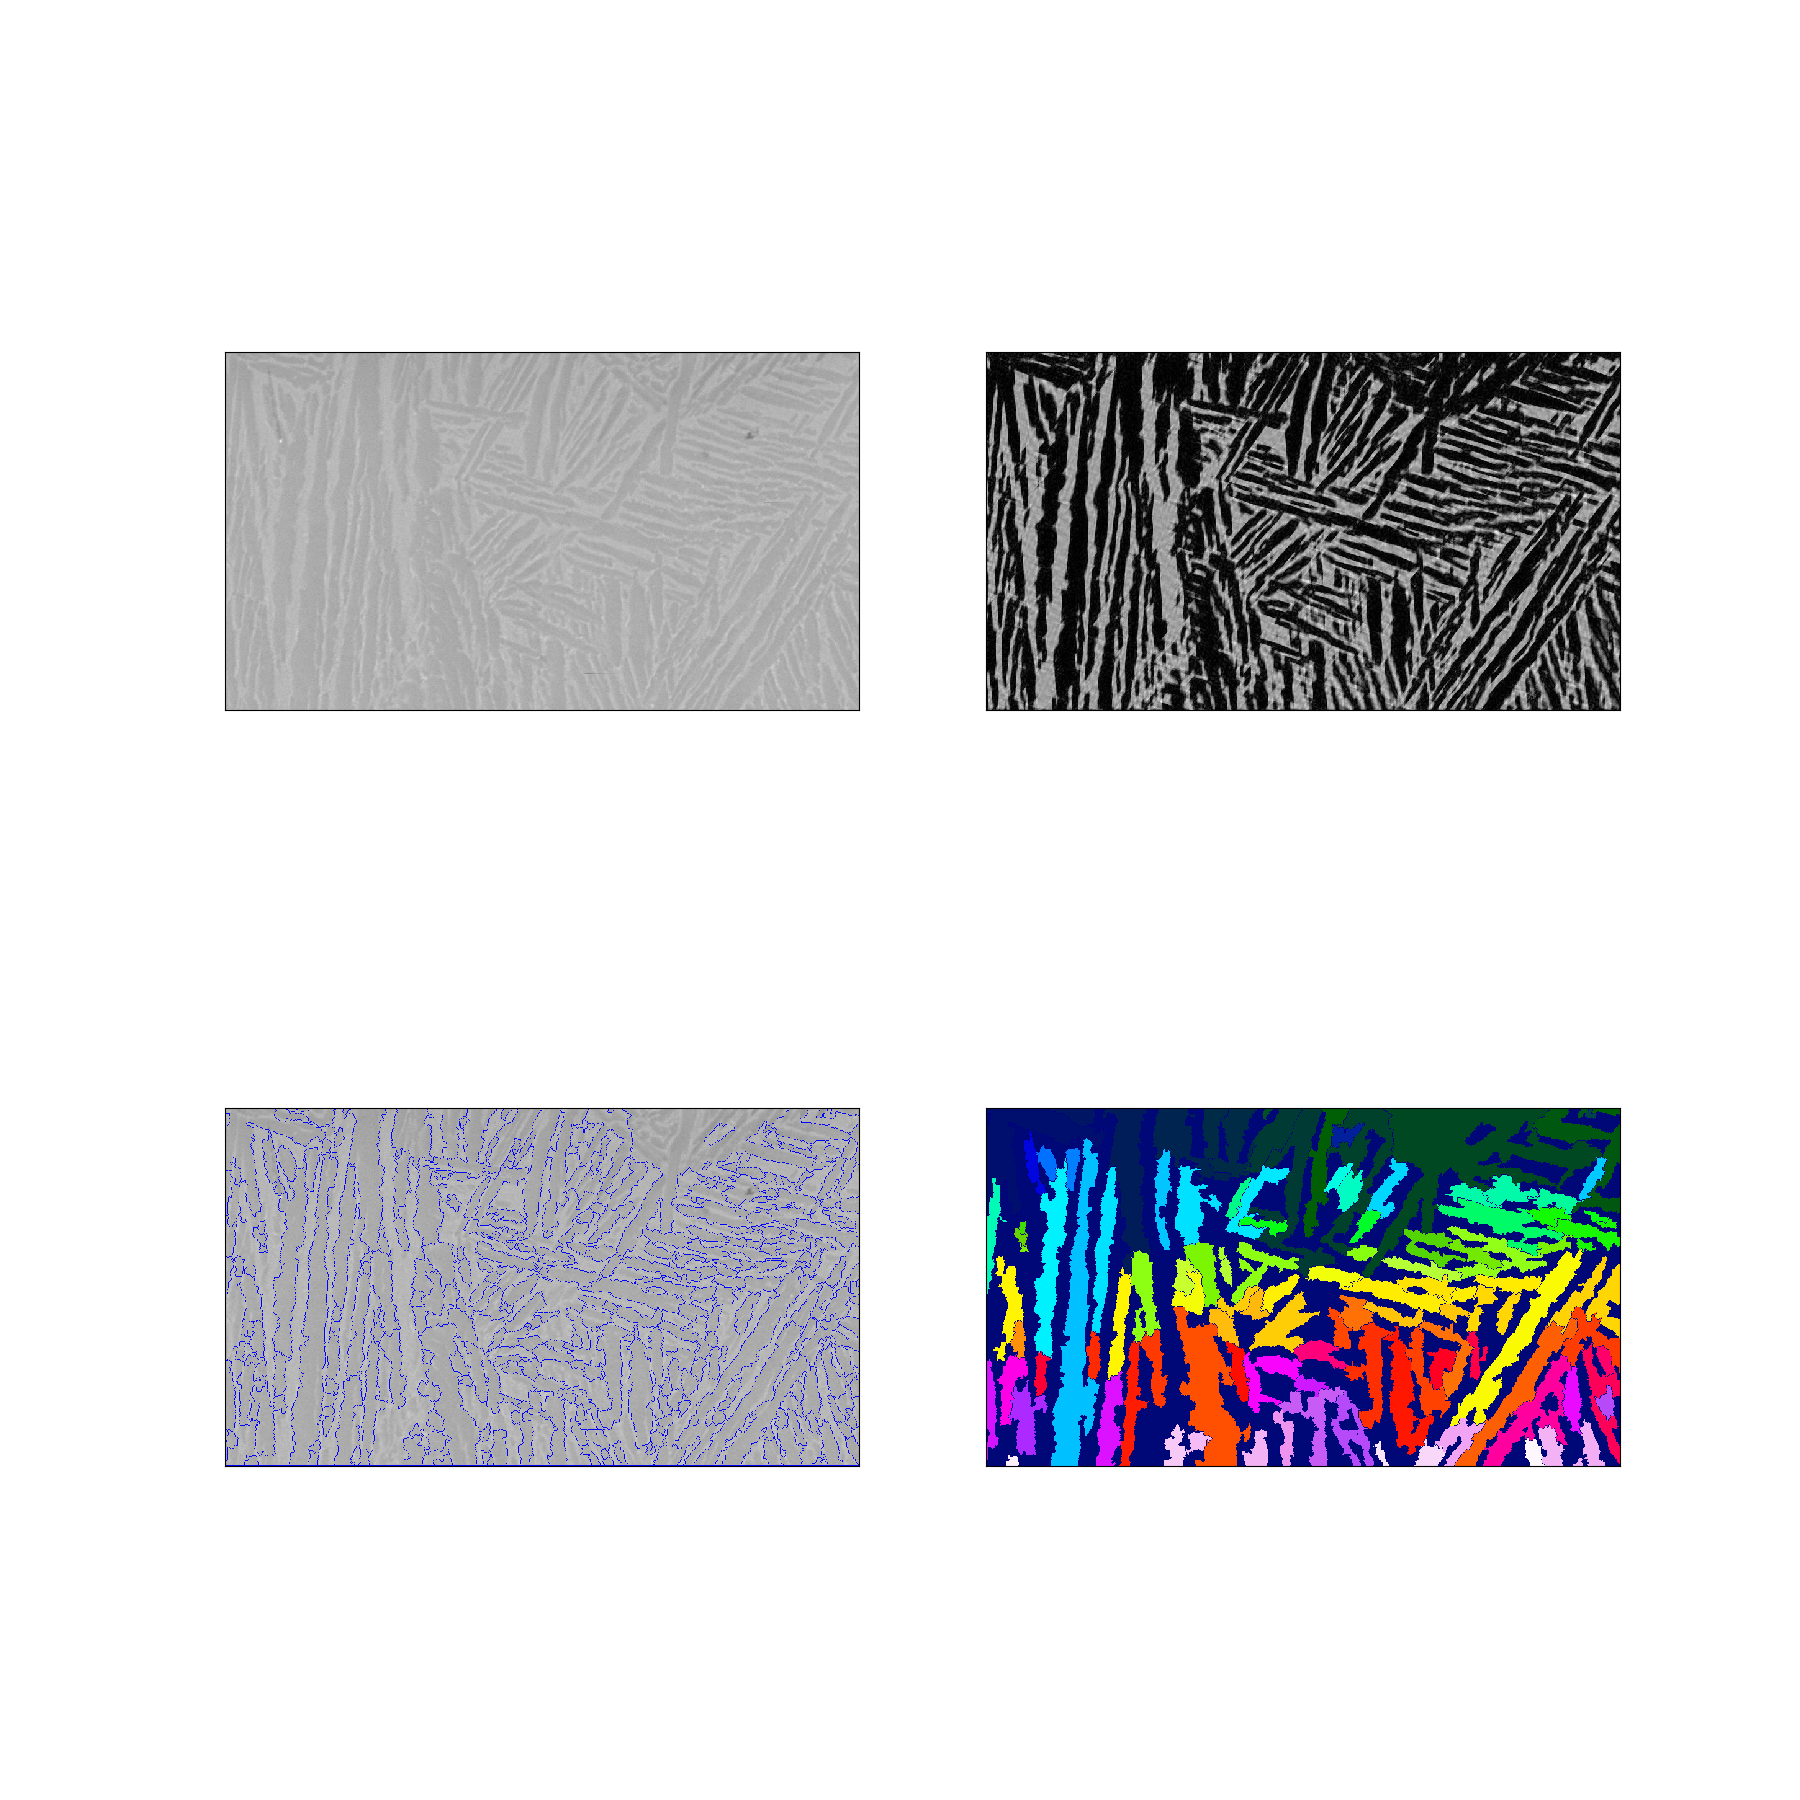
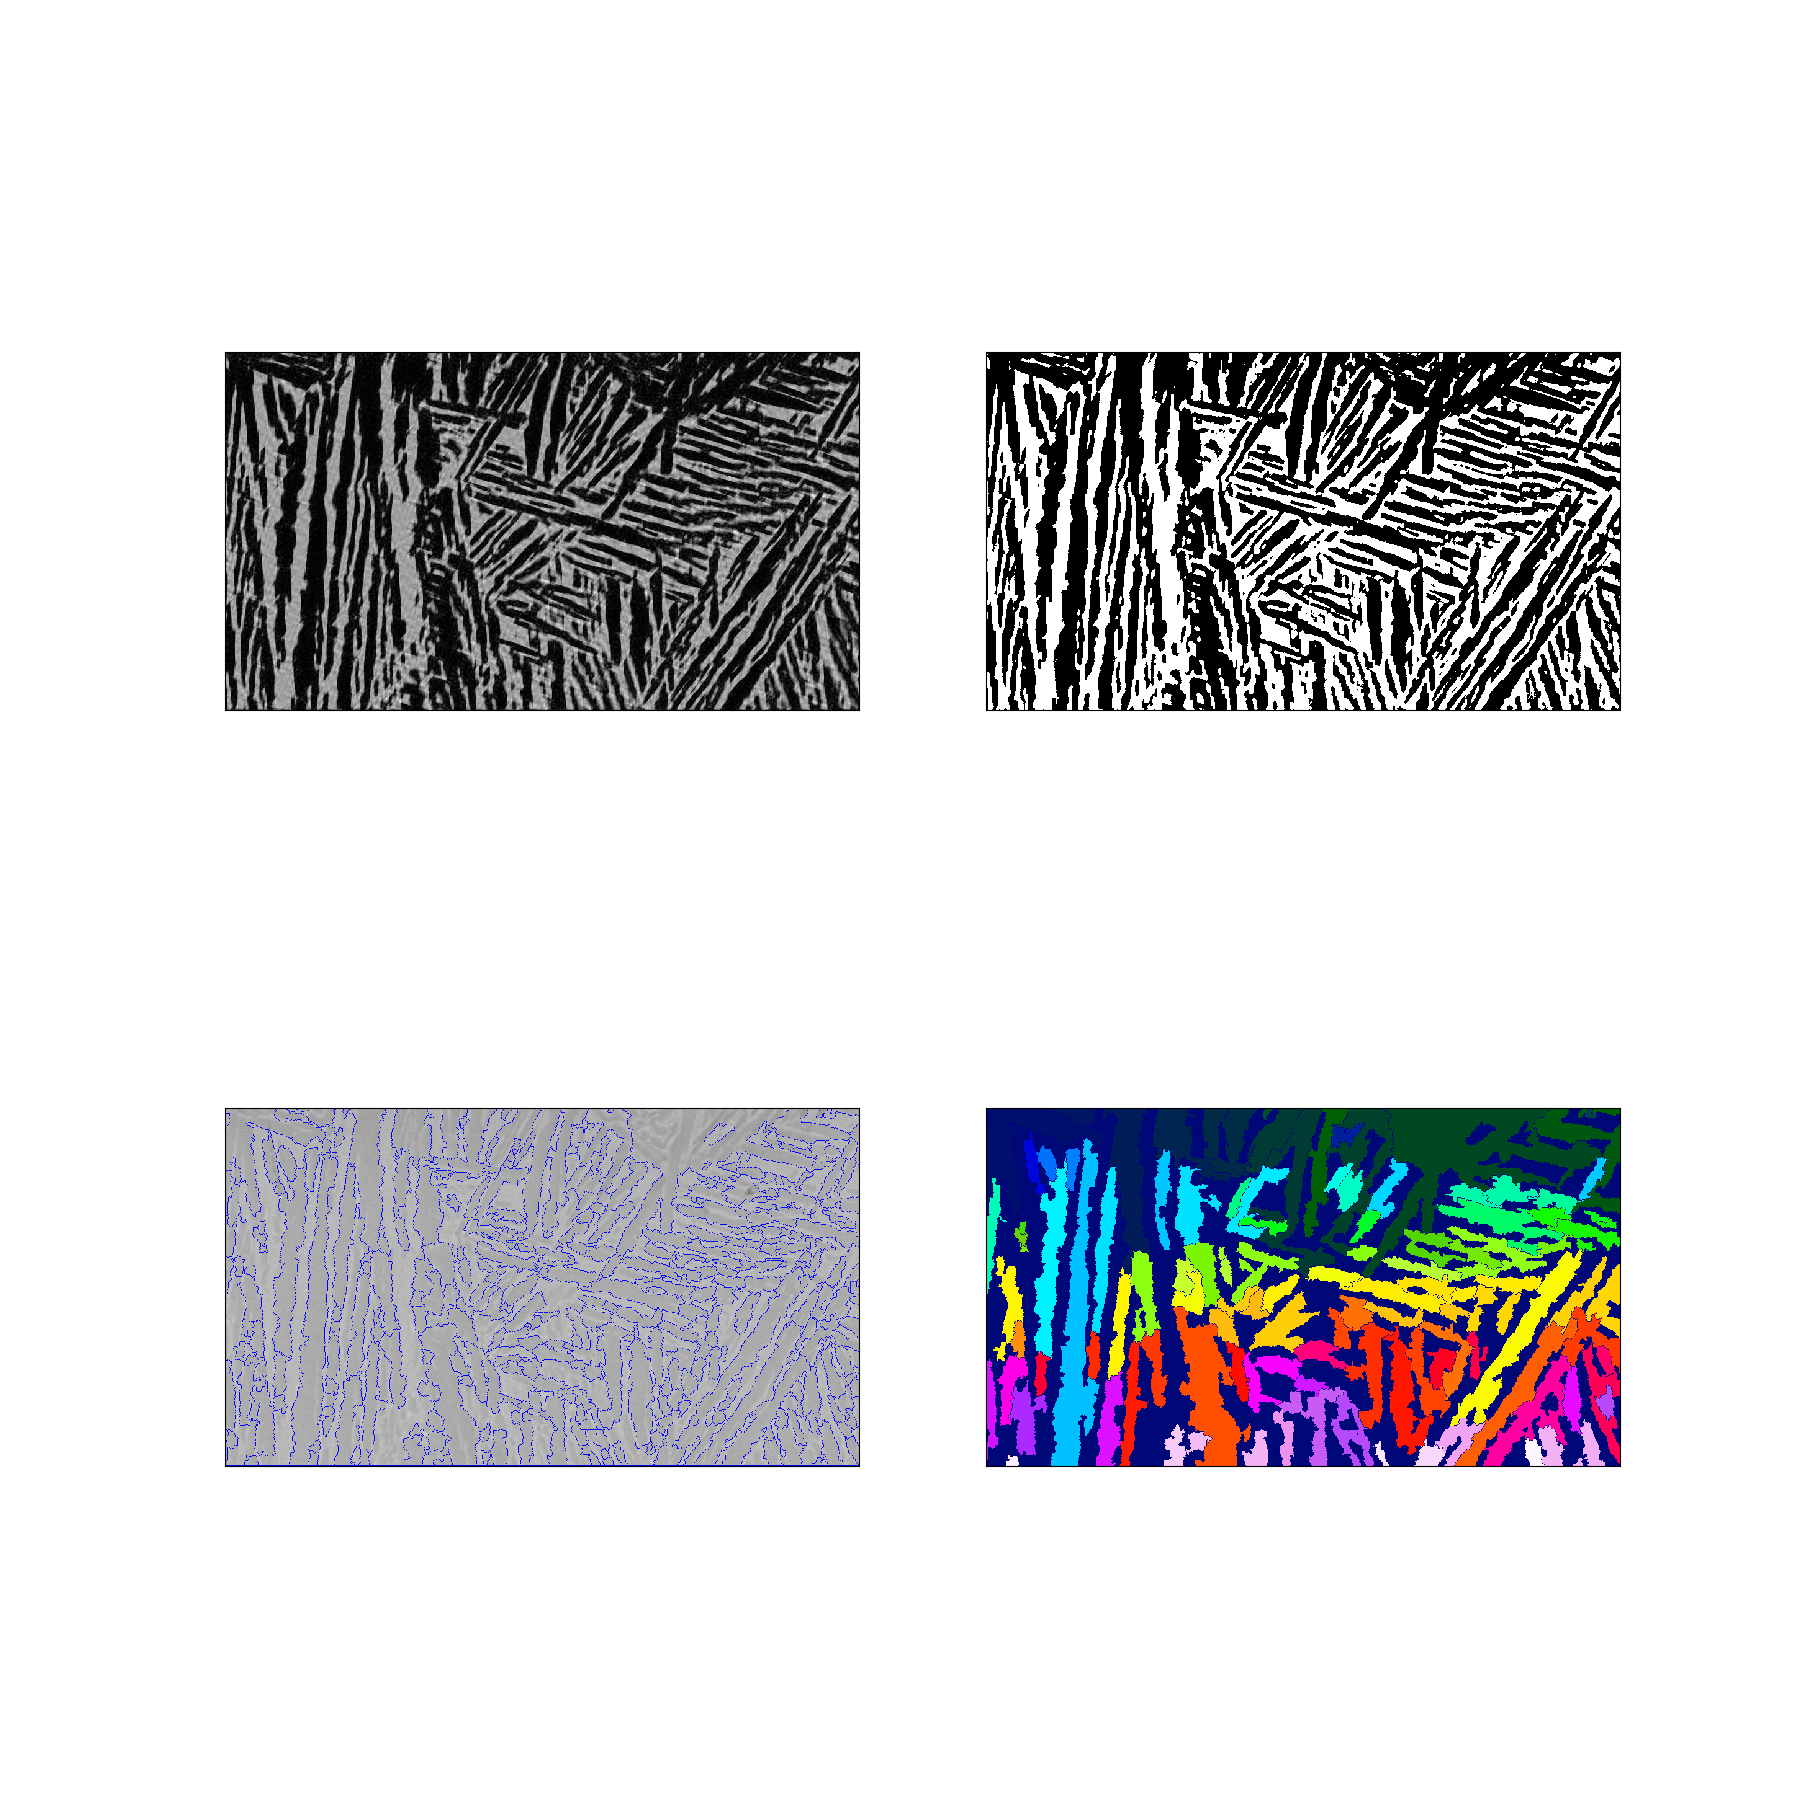
Updated MIPAR FFT images and data

Changed region(s): [[0.1244, 0.1867, 0.4978, 0.4044], [0.5289, 0.1867, 0.9022, 0.4044]]

diff --git a/visualisation.py b/visualisation.py
@@ -4,6 +4,7 @@ import matplotlib.pyplot as plt
 import os
 import time
 
+import data_extraction
 import oversegmentation
 import watershed
 import fast_Fourier_transform
@@ -75,11 +76,11 @@ removed = oversegmentation.remove_boundary(merged)
 # Visualise segmentation results
 image_processing.display_image_2D(
     fft_comparison['after FFT inverse'],
+    segmented['pre_thresholded'],
     segmented['segmented image'],
-    unmerged,
     removed,
     rows=2, cols=2,
-    cmap=['gray', None, 'gist_ncar', 'gist_ncar'],
+    cmap=['gray', 'gray', 'gist_ncar', 'gist_ncar'],
     visualisation=True)
 
 end = time.time()

diff --git a/image_saving.py b/image_saving.py
@@ -75,12 +75,12 @@ removed = oversegmentation.remove_boundary(merged)
 
 # Save segmentation results
 image_processing.display_image_2D(
-    image_ori,
     fft_comparison['after FFT inverse'],
+    segmented['pre_thresholded'],
     segmented['segmented image'],
-    unmerged,
+    removed,
     rows=2, cols=2,
-    cmap=[None, 'gray', None, 'gist_ncar'],
+    cmap=['gray', 'gray', 'gist_ncar', 'gist_ncar'],
     filename='Data/Pics/'+'segmentation_{}_FFT.png'.format(name))
 
 end = time.time()

diff --git a/README.md b/README.md
@@ -61,6 +61,7 @@ Watershed segmentation (FFT): (thersh, kernel, thresh_pre, dia_iter) = (0.21, (5
 Merge threshold (Otsu): merge_thresh = 1000
 
 Merge threshold (FFT): merge_thresh = 800
+
 ## Acknowledgment
 
 Our project idea was raised during a discussion with our supervising teacher, Dr Nathaniel Ng. We sincerely thank Dr Nathaniel for his guidance and advice. He provided many valuable suggestions on the image processing procedure and on the writing of this report. We thank Institute of Material Research and Engineering of A*STAR for providing us with the IMRE image. We are also grateful to MIPAR for allowing us to use the MIPAR image, one of the many microstructure images available on the website. Lastly, we would like to express our gratitude to Mrs Judy Tan and Mr Goh Kien Soon, both teachers from Nanyang Junior College, for providing us with the opportunity to conduct this research project with Dr Nathaniel.
